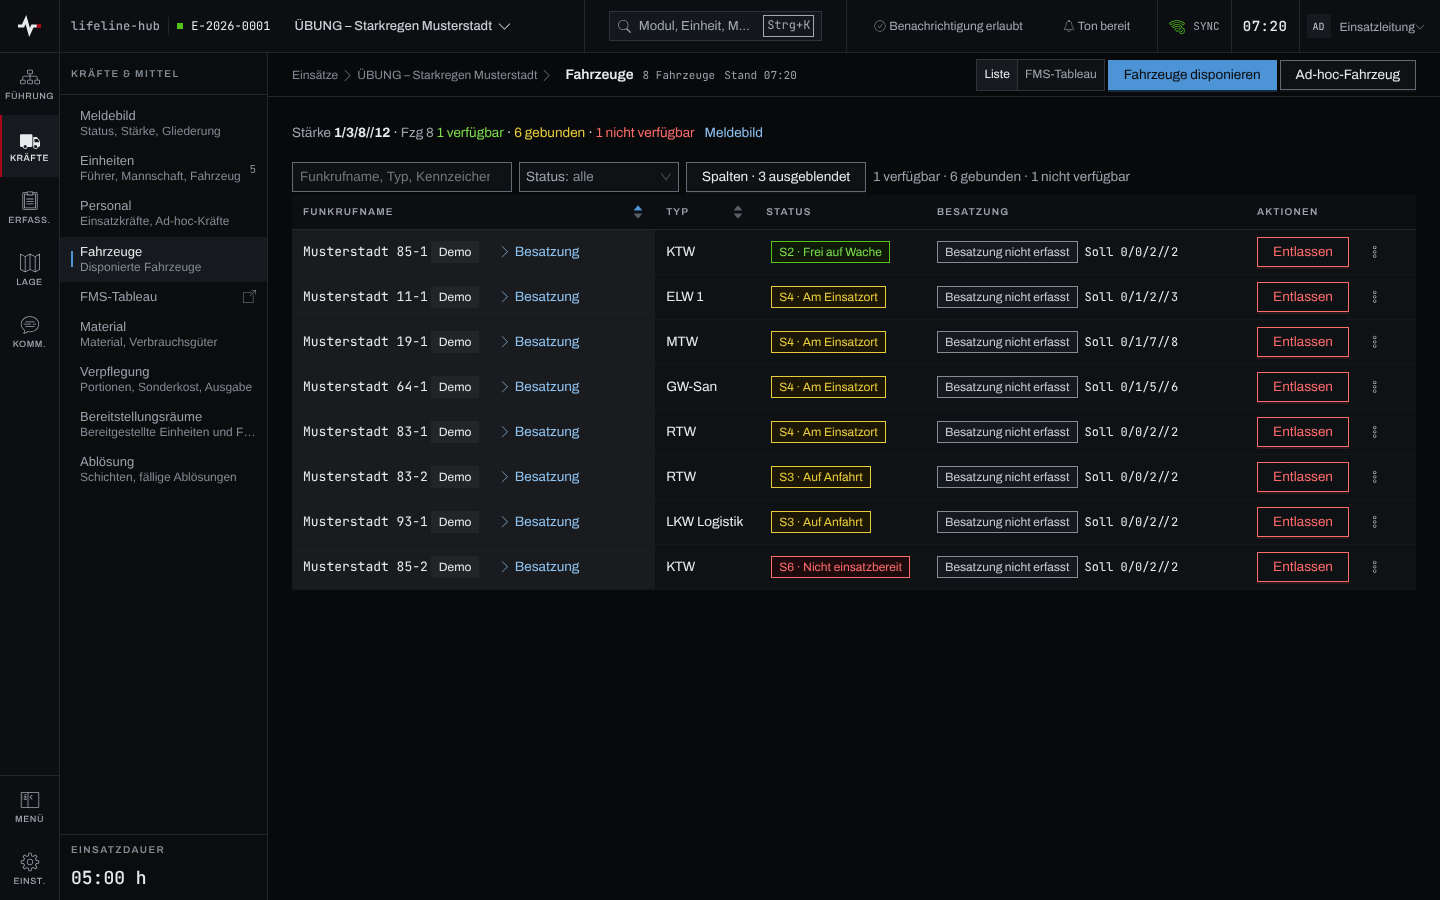
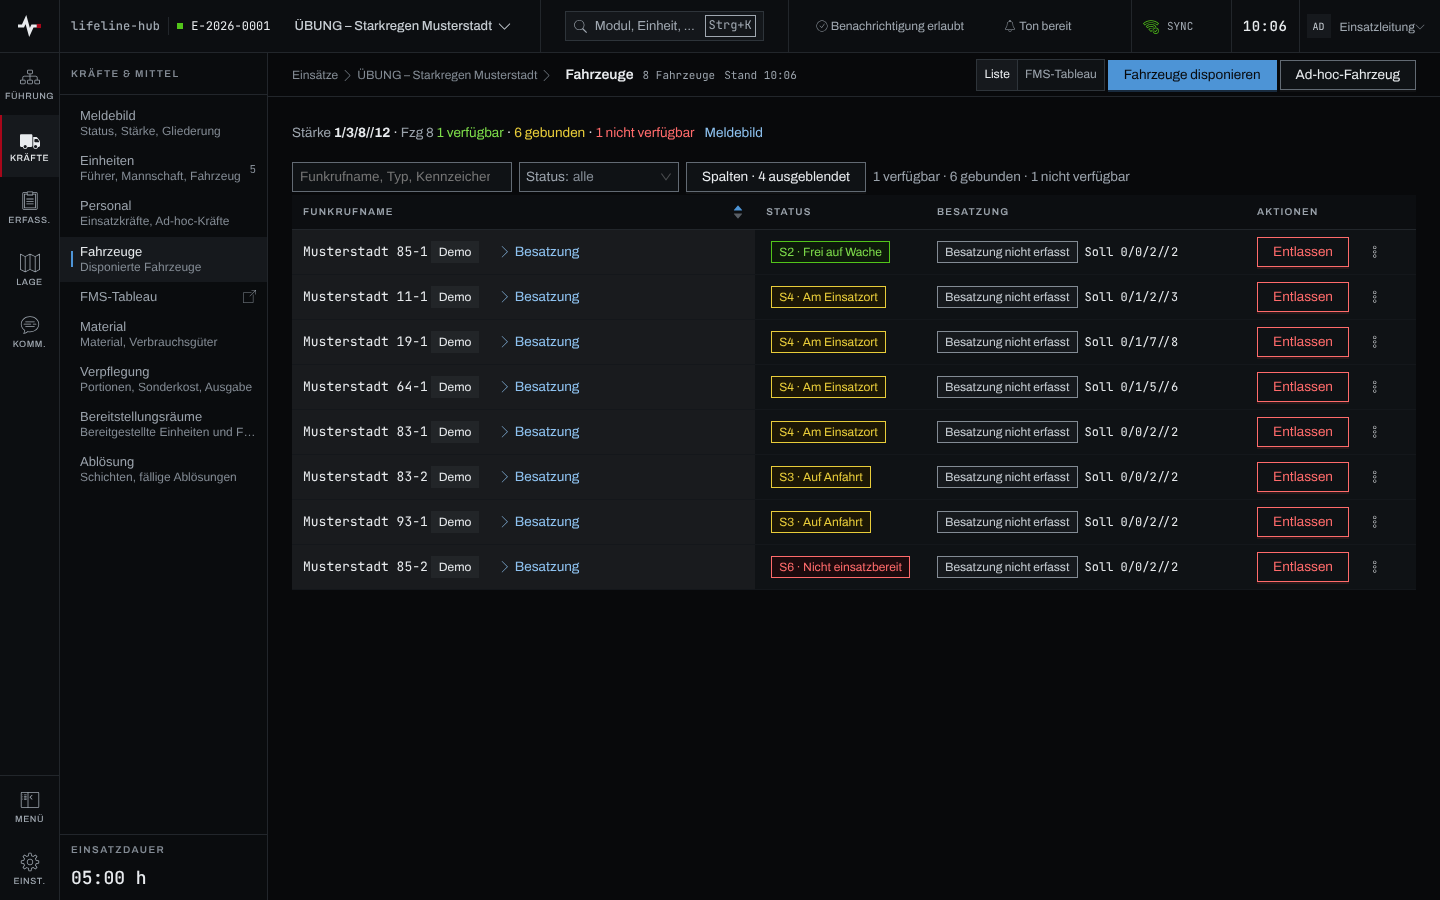
fix(fahrzeuge): Typ weicht unter 1600 px, der Funkrufname hält seine Zeile
Seit „Entlassen“ und „⋯“ die Aktionsspalte auf 170 px gebracht haben, brach am
Fükw (1440 px) ein Funkrufname mit „ad-hoc“ und Auslöser „Besatzung“ schon bei
27 Zeichen um; die Zeile wurde 71 statt höchstens 48 px hoch (Gate 1,
„Kräfte-Listen“ und „Tabellen am Führungsarbeitsplatz“). Der Typ weicht jetzt
wie Kennzeichen und Träger unter `xxl` in den Spaltenschalter. Doku und Bild
der Fahrzeugliste nachgezogen.

Zunder: https://zunder.rubeen.dev/#/aufgabe/k0s07wsn1h9dy2lztcd66bog

Claude-Session: https://claude.ai/code/session_01DDFgqKuDE2TAXVLAHHoUGt

diff --git a/frontend/src/pages/FahrzeugePage.test.tsx b/frontend/src/pages/FahrzeugePage.test.tsx
@@ -681,42 +681,44 @@ describe('FahrzeugePage', () => {
      * Leeres Bemerkungsfeld an der Fahrzeugseite. Die Spalte ist per Voreinstellung abgewählt; die
      * Vorprüfung auf „kein Auslöser" macht die zweite Hälfte aussagekräftig.
      *
-     * Der Zähler ist hier empfindlicher, weil die Seite `kennzeichen` und `traeger` per
-     * `abBreite: 'xxl'` führt (LFH-1149): nach dem Einschalten der Bemerkung muss er bei 1024 px
-     * von drei auf genau diese zwei fallen.
+     * Der Zähler ist hier empfindlicher, weil die Seite `typ`, `kennzeichen` und `traeger` per
+     * `abBreite: 'xxl'` führt (LFH-1149, LLH-1079): nach dem Einschalten der Bemerkung muss er bei
+     * 1024 px von vier auf genau diese drei fallen.
      */
     const { container } = render(einsatz());
     await screen.findByText('Florian 1');
     expect(screen.queryByRole('button', { name: 'Bemerkung zu Florian 1 hinzufügen' })).toBeNull();
 
-    await userEvent.click(screen.getByRole('button', { name: /Spalten · 3 ausgeblendet/ }));
+    await userEvent.click(screen.getByRole('button', { name: /Spalten · 4 ausgeblendet/ }));
     await userEvent.click(await screen.findByRole('checkbox', { name: 'Bemerkung' }));
 
     const zeile = container.querySelector('[data-row-key="10"]') as HTMLElement;
     expect(
       within(zeile).getByRole('button', { name: 'Bemerkung zu Florian 1 hinzufügen' }),
     ).toBeInTheDocument();
-    expect(screen.getByRole('button', { name: /Spalten · 2 ausgeblendet/ })).toBeInTheDocument();
+    expect(screen.getByRole('button', { name: /Spalten · 3 ausgeblendet/ })).toBeInTheDocument();
   });
 
   it('der Spaltenschalter zählt Handauswahl UND Breitenausblendung in EINEM Zähler', async () => {
     /**
      * Gate 2 verlangt den Zähler ausgeblendeter Spalten, nicht `aus.length`: ab 1600 px ist nur
-     * `bemerkung` abgewählt (1), bei 1024 px fallen `kennzeichen` und `traeger` über
-     * `abBreite: 'xxl'` zusätzlich weg (3, LFH-1149). Ein Zähler, der nur die Handauswahl kennt,
-     * meldete beide Male „1".
+     * `bemerkung` abgewählt (1), bei 1024 px fallen `typ`, `kennzeichen` und `traeger` über
+     * `abBreite: 'xxl'` zusätzlich weg (4, LFH-1149, LLH-1079). Ein Zähler, der nur die
+     * Handauswahl kennt, meldete beide Male „1".
      */
     setzeViewportBreite(1600);
     const { unmount } = render(einsatz());
     await screen.findByText('Florian 1');
     expect(screen.getByRole('button', { name: /Spalten · 1 ausgeblendet/ })).toBeInTheDocument();
     expect(screen.getByRole('columnheader', { name: 'Kennzeichen' })).toBeInTheDocument();
+    expect(screen.getByRole('columnheader', { name: 'Typ' })).toBeInTheDocument();
     unmount();
 
     setzeViewportBreite(1024);
     render(einsatz());
     await screen.findByText('Florian 1');
-    expect(screen.getByRole('button', { name: /Spalten · 3 ausgeblendet/ })).toBeInTheDocument();
+    expect(screen.getByRole('button', { name: /Spalten · 4 ausgeblendet/ })).toBeInTheDocument();
+    expect(screen.queryByRole('columnheader', { name: 'Typ' })).toBeNull();
     expect(screen.queryByRole('columnheader', { name: 'Kennzeichen' })).toBeNull();
     expect(screen.queryByRole('columnheader', { name: 'Träger' })).toBeNull();
   });

diff --git a/frontend/src/pages/FahrzeugePage.tsx b/frontend/src/pages/FahrzeugePage.tsx
@@ -526,8 +526,10 @@ export default function FahrzeugePage() {
    * Besatzung hält dabei eine Zeile (320 px für „unterbesetzt“ samt Ist und Soll). Den Rest
    * nimmt der Funkrufname: neben „ad-hoc“ und Auslöser trägt er bei 1440 rund 30 Zeichen in einer
    * Zeile, ein längerer bricht um (Entscheidung Ruben, 10.10.2026). Unter `xxl`
-   * weichen `kennzeichen` und `traeger`, beide über den Spaltenschalter und im Zähler (wie die
-   * Personalseite). Wer eine Breite ändert, misst neu (`e2e/gate1-ueberlauf.spec.ts`, „Tabellen
+   * weichen `typ`, `kennzeichen` und `traeger`, alle über den Spaltenschalter und im Zähler (wie
+   * die Personalseite). `typ` weicht, seit „Entlassen“ und „⋯“ die Aktionsspalte auf 170 px
+   * gebracht haben (LLH-1079 Teil II): sonst blieben dem Funkrufnamen keine 30 Zeichen; den Typ
+   * trägt der Funkrufname meist schon in seiner Kennzahl. Wer eine Breite ändert, misst neu (`e2e/gate1-ueberlauf.spec.ts`, „Tabellen
    * am Führungsarbeitsplatz“ und „Kräfte-Listen“).
    */
   const spalten = spaltenFuer<EinsatzFahrzeug>()([
@@ -554,6 +556,7 @@ export default function FahrzeugePage() {
       dataIndex: 'fahrzeugtyp',
       key: 'typ',
       width: 100,
+      abBreite: 'xxl',
       sortWert: (ef) => ef.fahrzeugtyp,
       suchText: (ef) => ef.fahrzeugtyp,
       render: (t) => t ?? '—',

diff --git a/frontend/src/pages/FahrzeugePage.speicherfehler.test.tsx b/frontend/src/pages/FahrzeugePage.speicherfehler.test.tsx
@@ -261,8 +261,8 @@ describe('FahrzeugePage · Speicherfehler am Ort (LFH-1077)', () => {
     );
     const { container } = render();
     await screen.findByText('Florian 1');
-    // Bei 1024 px: Bemerkung (Voreinstellung), Kennzeichen und Träger (unter `xxl`, LFH-1149).
-    await userEvent.click(screen.getByRole('button', { name: /Spalten · 3 ausgeblendet/ }));
+    // Bei 1024 px: Bemerkung (Voreinstellung), Typ, Kennzeichen und Träger (unter `xxl`).
+    await userEvent.click(screen.getByRole('button', { name: /Spalten · 4 ausgeblendet/ }));
     await userEvent.click(await screen.findByRole('checkbox', { name: 'Bemerkung' }));
 
     const schreibe = async (id: number, funkrufname: string, text: string) => {

diff --git a/docs/anwender/kapitel/fahrzeuge.md b/docs/anwender/kapitel/fahrzeuge.md
@@ -8,9 +8,9 @@ quellen: [frontend/src/pages/FahrzeugePage.tsx, frontend/src/kraefte/FahrzeugeDi
 ## Überblick
 
 Das Modul **Fahrzeuge** führt alle Fahrzeuge, die im Einsatz disponiert sind, aus dem Fahrzeugstamm
-der Organisation oder ad hoc erfasst. Je Fahrzeug stehen Funkrufname, Typ, FMS-Status und
-Besatzung; Kennzeichen und Träger stehen erst ab 1600 px Fensterbreite in der Liste, darunter lassen
-sie sich wie die Bemerkung unter „Spalten“ einblenden.
+der Organisation oder ad hoc erfasst. Je Fahrzeug stehen Funkrufname, FMS-Status und Besatzung;
+Typ, Kennzeichen und Träger stehen erst ab 1600 px Fensterbreite in der Liste, darunter lassen sie
+sich wie die Bemerkung unter „Spalten“ einblenden.
 
 Zwei Ansichten zeigen dieselben Fahrzeuge: die **Liste** zum Pflegen und Vergleichen und das
 **FMS-Tableau** als Überblick über die ganze Flotte, in dem sich der Status mit einem Klick oder
@@ -25,7 +25,7 @@ Einsatzleitung und Führungspersonal.
 2. Je Fahrzeug „Status“ und „Besatzung“ lesen. Die Besatzung steht als Urteil, etwa „Besatzung nicht
    erfasst“ oder „Soll erfüllt“, daneben Ist- und Soll-Stärke.
 
-   ![Fahrzeugliste mit Funkrufname, Typ, FMS-Status, Besatzung und dem Knopf „Entlassen“ je Fahrzeug, darüber „Spalten · 3 ausgeblendet“](../bilder/fahrzeuge/fahrzeuge.png)
+   ![Fahrzeugliste mit Funkrufname, FMS-Status, Besatzung und dem Knopf „Entlassen“ je Fahrzeug, darüber „Spalten · 4 ausgeblendet“](../bilder/fahrzeuge/fahrzeuge.png)
 
 3. In „Funkrufname, Typ, Kennzeichen“ suchen oder unter „Status“ eine Kategorie wählen.
 
